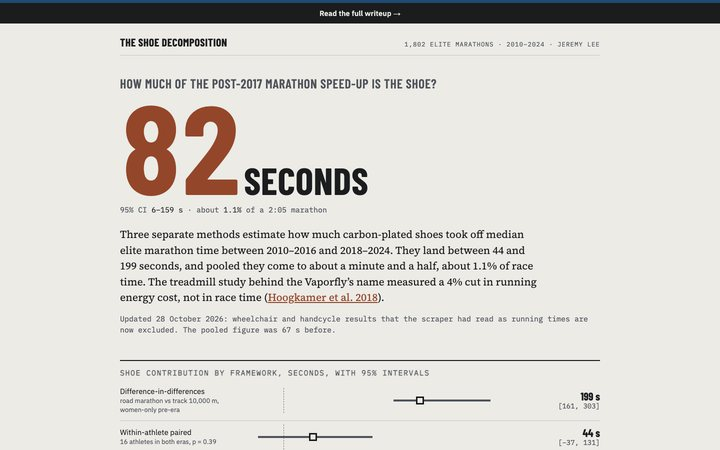
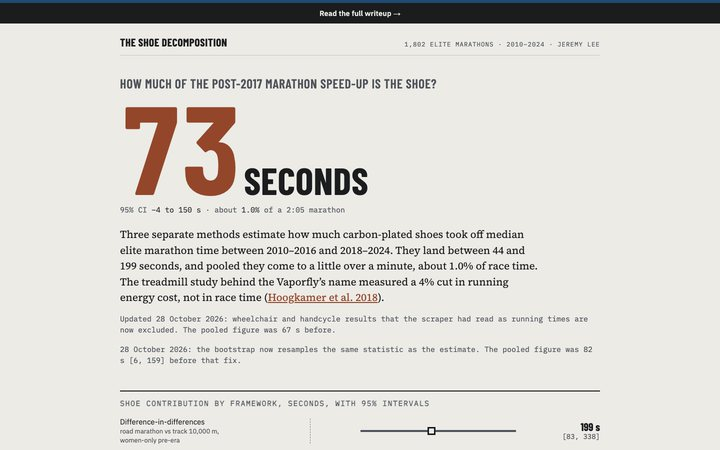
Receipt Auditor: Claude 80.0% in the clean rerun; recapture Shoes after the bootstrap fix

diff --git a/index.html b/index.html
@@ -60,9 +60,9 @@ try{var t=localStorage.getItem("theme");if(t==="light"||t==="dark")document.docu
   <div class="head"><p class="eyebrow">Applied AI</p><h2>The fine-tuning series</h2><p class="intro">Four photo-to-data apps. Each pairs an LLM pipeline with a small Qwen2.5 model I fine-tuned on my laptop (LoRA) for one step of the task, then benchmarks base, fine-tuned and Claude zero-shot on held-out data.</p></div>
   <div class="scroll"><table class="bench">
     <thead><tr><th scope="col">App</th><th scope="col">What the small model does</th><th scope="col" class="num">Fine-tuned</th><th scope="col" class="num">Claude zero-shot</th><th scope="col"><span class="vh">Links</span></th></tr></thead>
-    <tbody><tr><th scope="row"><a href="https://lyhjeremy.github.io/receipt-auditor/">Receipt Auditor</a></th><td>Spend category for merchants it has never seen</td><td class="num strong">90.5%</td><td class="num">56.0%<sup>a</sup></td><td><span class="links"><a href="https://lyhjeremy.github.io/receipt-auditor/">Site</a><a href="https://lyhjeremy.github.io/receipt-auditor/overview/">Write-up</a></span></td></tr><tr><th scope="row"><a href="https://lyhjeremy.github.io/cellar-scanner/">Cellar Scanner</a></th><td>Grape variety from a blind tasting note (1.5B)</td><td class="num strong">27.7%</td><td class="num">23.0%<sup>b</sup></td><td><span class="links"><a href="https://lyhjeremy.github.io/cellar-scanner/">Site</a><a href="https://lyhjeremy.github.io/cellar-scanner/overview/">Write-up</a></span></td></tr><tr><th scope="row"><a href="https://lyhjeremy.github.io/menu-decoder/">Menu Decoder</a></th><td>Cuisine and 14 allergen tags from a bare dish name</td><td class="num strong">99.3% cuisine, 69.3% allergen recall</td><td class="num">79.2% allergen recall<sup>c</sup></td><td><span class="links"><a href="https://lyhjeremy.github.io/menu-decoder/">Site</a><a href="https://lyhjeremy.github.io/menu-decoder/overview/">Write-up</a></span></td></tr><tr><th scope="row"><a href="https://lyhjeremy.github.io/race-day-copilot/">Race Day Copilot</a></th><td>Km-by-km pacing plan, checked by six rules (3B)</td><td class="num strong">Near parity on structure</td><td class="num">Ahead on split arithmetic</td><td><span class="links"><a href="https://lyhjeremy.github.io/race-day-copilot/">Site</a><a href="https://lyhjeremy.github.io/race-day-copilot/overview/">Write-up</a></span></td></tr></tbody>
+    <tbody><tr><th scope="row"><a href="https://lyhjeremy.github.io/receipt-auditor/">Receipt Auditor</a></th><td>Spend category for merchants it has never seen</td><td class="num strong">90.5%</td><td class="num">80.0%<sup>a</sup></td><td><span class="links"><a href="https://lyhjeremy.github.io/receipt-auditor/">Site</a><a href="https://lyhjeremy.github.io/receipt-auditor/overview/">Write-up</a></span></td></tr><tr><th scope="row"><a href="https://lyhjeremy.github.io/cellar-scanner/">Cellar Scanner</a></th><td>Grape variety from a blind tasting note (1.5B)</td><td class="num strong">27.7%</td><td class="num">23.0%<sup>b</sup></td><td><span class="links"><a href="https://lyhjeremy.github.io/cellar-scanner/">Site</a><a href="https://lyhjeremy.github.io/cellar-scanner/overview/">Write-up</a></span></td></tr><tr><th scope="row"><a href="https://lyhjeremy.github.io/menu-decoder/">Menu Decoder</a></th><td>Cuisine and 14 allergen tags from a bare dish name</td><td class="num strong">99.3% cuisine, 69.3% allergen recall</td><td class="num">79.2% allergen recall<sup>c</sup></td><td><span class="links"><a href="https://lyhjeremy.github.io/menu-decoder/">Site</a><a href="https://lyhjeremy.github.io/menu-decoder/overview/">Write-up</a></span></td></tr><tr><th scope="row"><a href="https://lyhjeremy.github.io/race-day-copilot/">Race Day Copilot</a></th><td>Km-by-km pacing plan, checked by six rules (3B)</td><td class="num strong">Near parity on structure</td><td class="num">Ahead on split arithmetic</td><td><span class="links"><a href="https://lyhjeremy.github.io/race-day-copilot/">Site</a><a href="https://lyhjeremy.github.io/race-day-copilot/overview/">Write-up</a></span></td></tr></tbody>
   </table></div>
-  <ol class="notes"><li><sup>a</sup> As scored. Claude&#x27;s answers drew on the project&#x27;s category list, and the original scorer&#x27;s rule is lost; reading the first category Claude names gives about 74.7%. The fine-tuned model still leads.</li><li><sup>b</sup> Scored on the same 200 notes, the fine-tuned model is right on 55 and Claude on 46 (sign test p = 0.33), so the gap is within noise.</li><li><sup>c</sup> Claude needs the full allergen schema in every prompt to get there; the fine-tuned model gets the dish name only.</li></ol>
+  <ol class="notes"><li><sup>a</sup> Clean rerun on 2026-10-28: Claude saw only the merchant text and the 12 labels, with tools off. Most of its misses are noisy labels in the test set (hardware and cables marked other). The first run scored 56.0% with a leaked category list.</li><li><sup>b</sup> Scored on the same 200 notes, the fine-tuned model is right on 55 and Claude on 46 (sign test p = 0.33), so the gap is within noise.</li><li><sup>c</sup> Claude needs the full allergen schema in every prompt to get there; the fine-tuned model gets the dish name only.</li></ol>
 </section>
 
 <section class="wrap block" id="stories">
